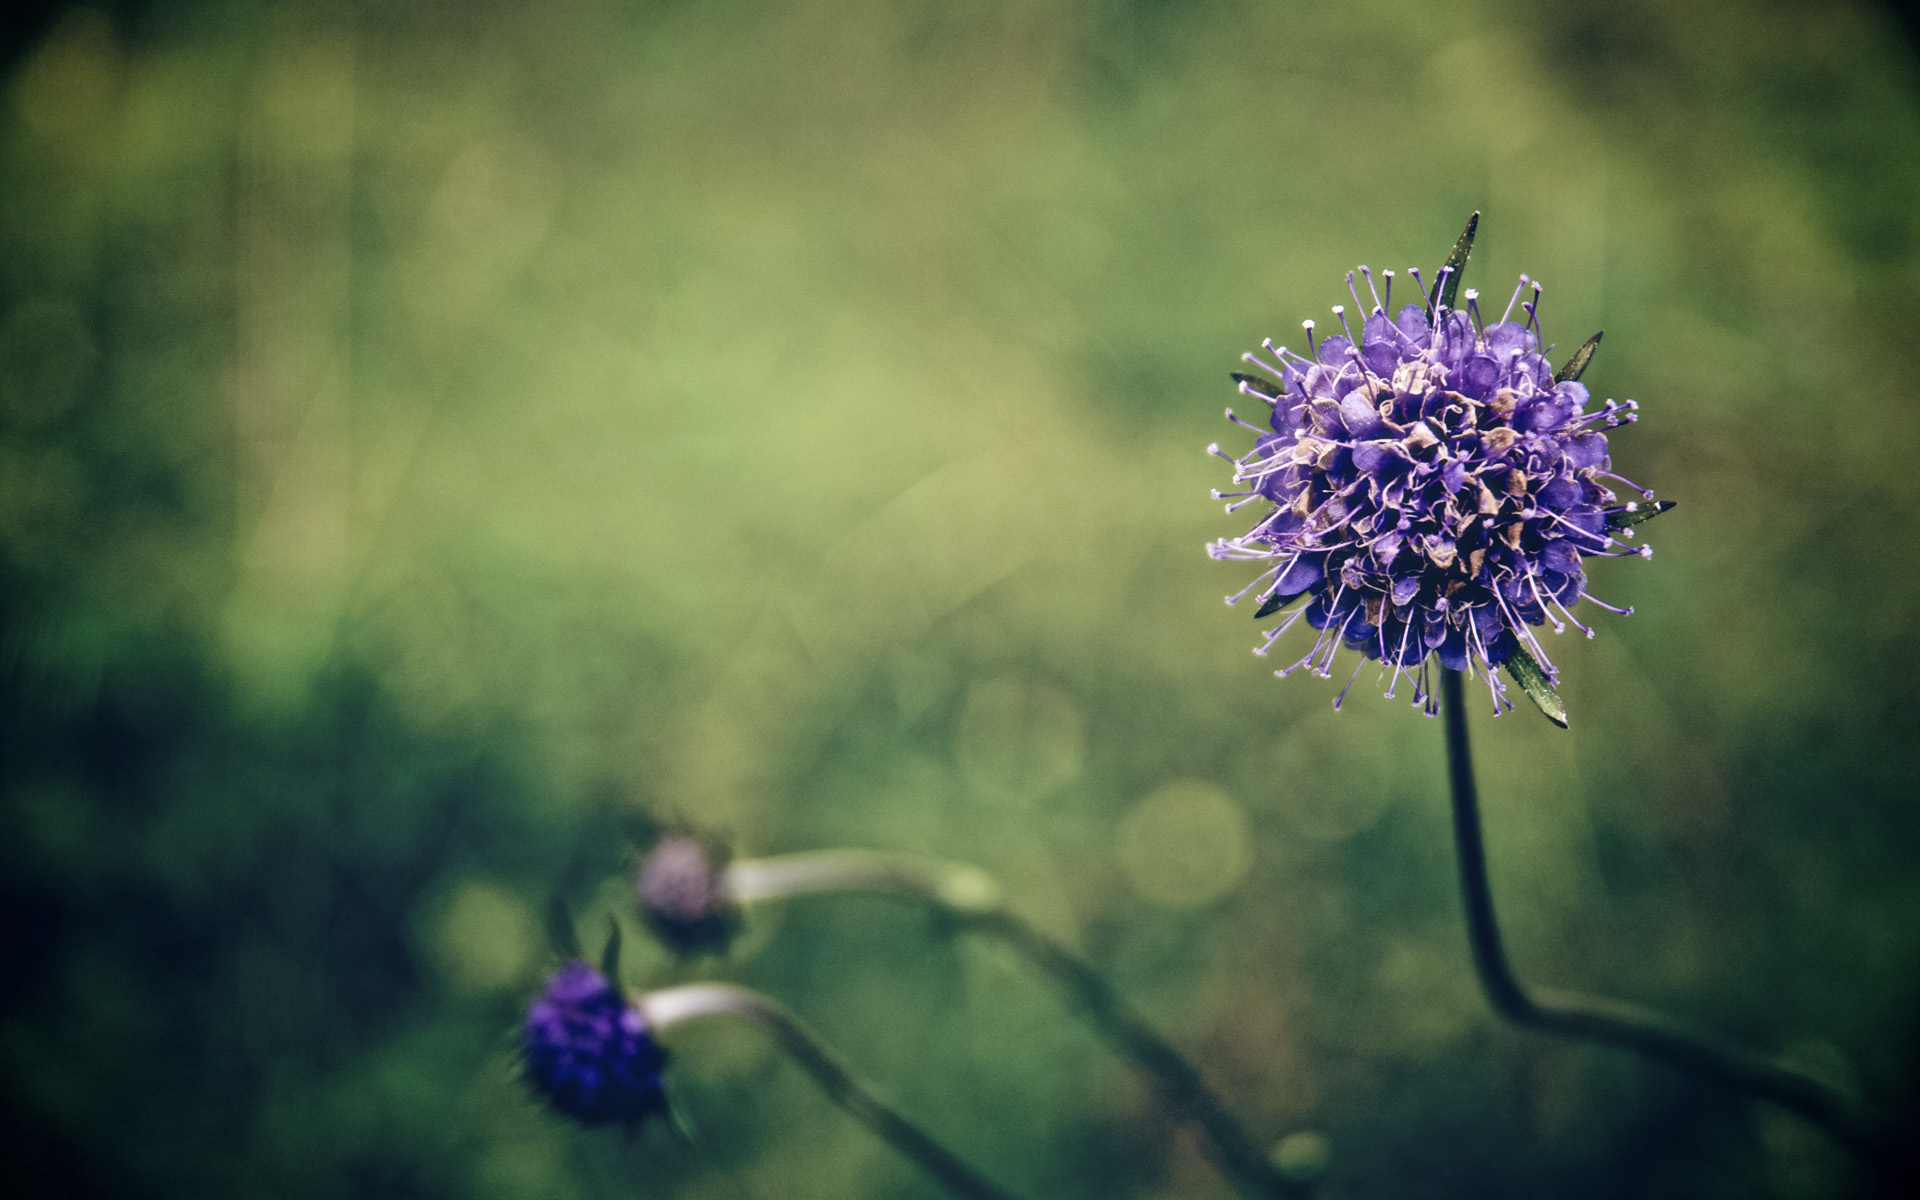
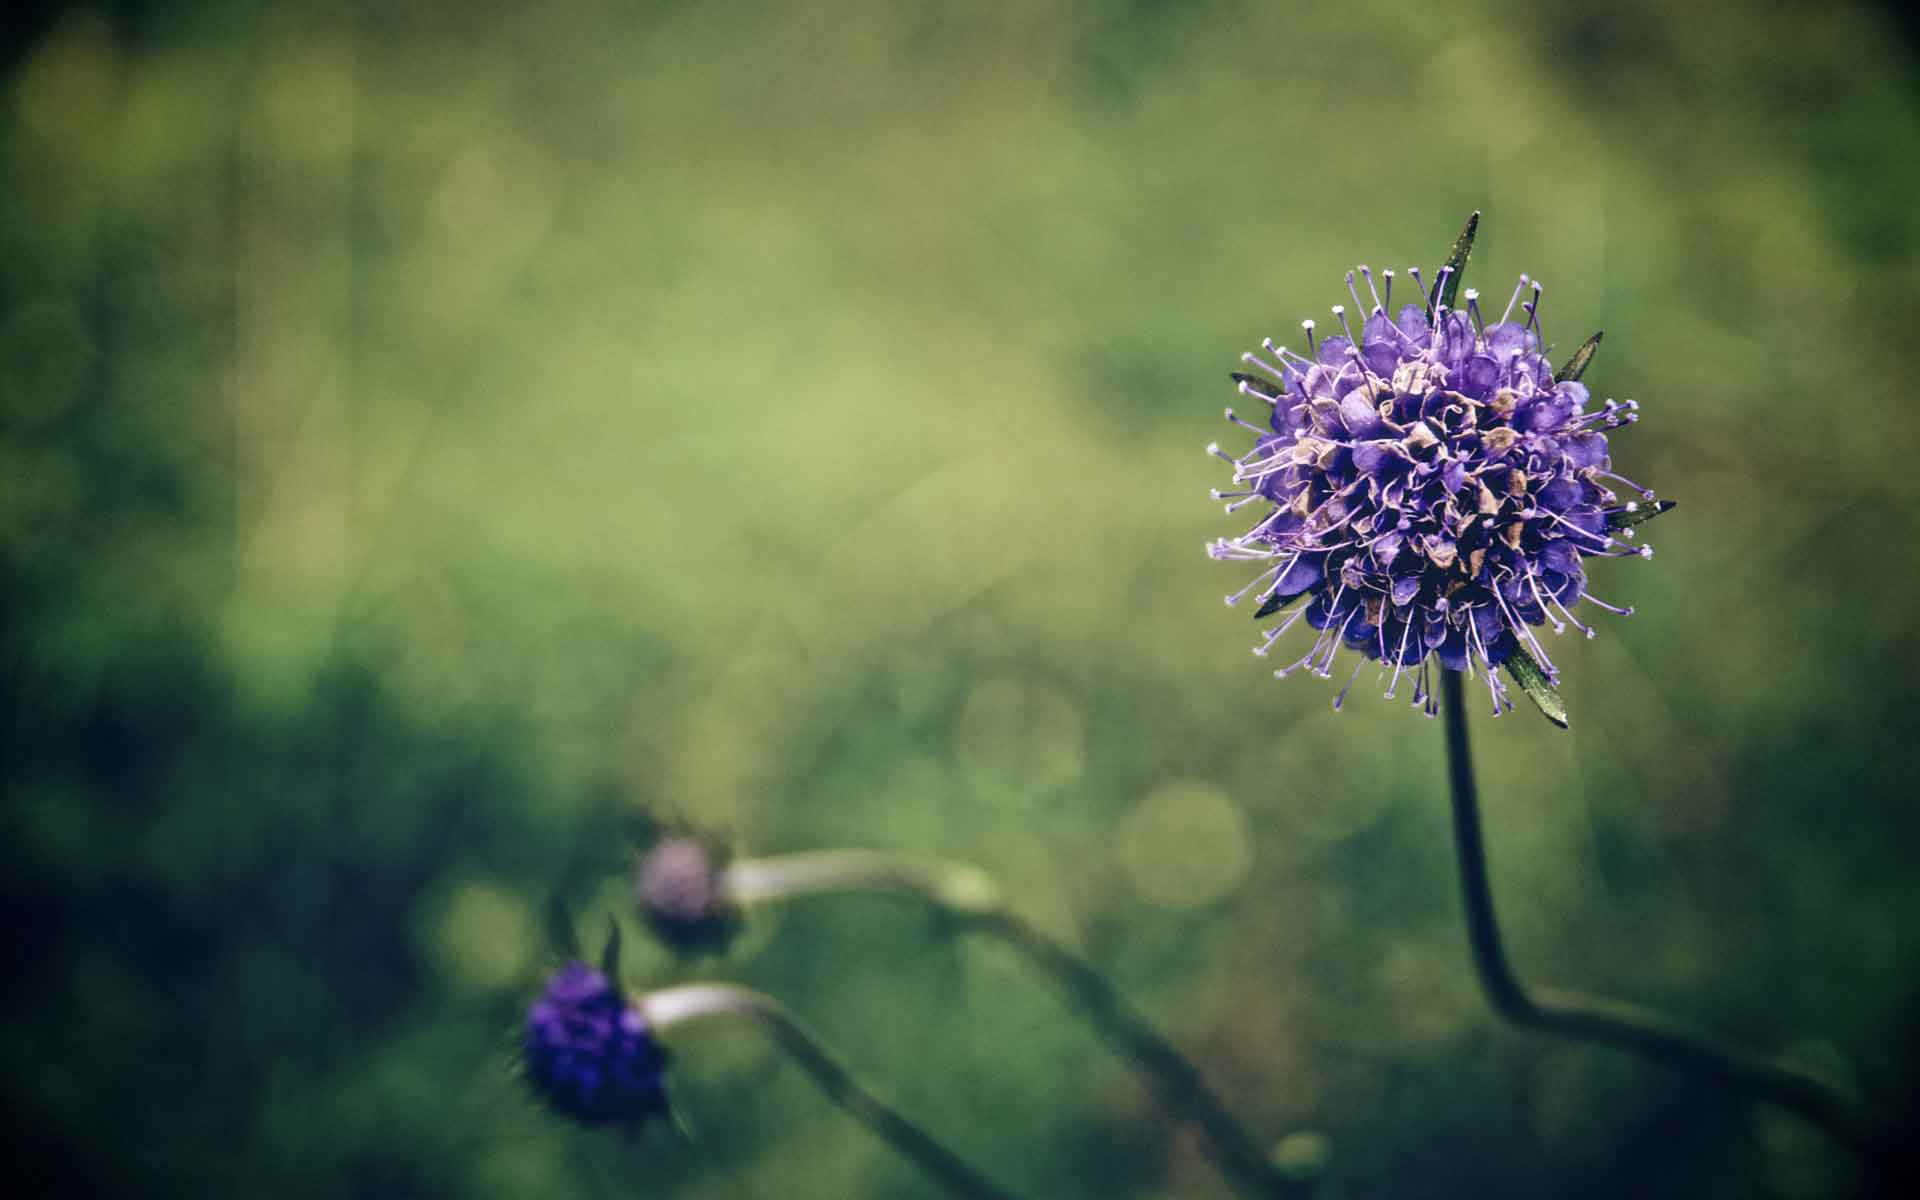
图片缩小， iOS CSS 的 fix

diff --git a/KTAnchor.css b/KTAnchor.css
@@ -3,7 +3,7 @@
 html, body{width:100%;height:100%;}
 body{overflow:hidden;background:#fff;color:#292f33;font-size:14px;line-height:18px;font-size:8.75pt;font-family:Arial;}
 .bold-medium{font-weight:bold;}
-a, .bold-medium{font-size:8.75pt;color:#5d656b;border:medium none;text-decoration:none;}
+a, .bold-medium{font-size:8.75pt;color:#5d656b;border:medium none;text-decoration:none;-webkit-tap-highlight-color:rgba(0,0,0,0);}
 a:hover, .bold-medium:hover{text-decoration:underline;}
 table{border-collapse:collapse;}
 
@@ -62,7 +62,7 @@ a.tree-menu-open div{background: url("img/button_down.gif") no-repeat scroll 27p
 .app-name {position:relative;top:0px;text-align:center;font-weight:bold;color:#444;}
 
 .login-form{position:absolute;width:276px;padding:10px;height:96px;background:none repeat scroll 0 0 rgba(255,255,255,0.9);}
-input, select {vertical-align:middle;display:inline-block;outline: 0 none;}
+input, select {vertical-align:middle;display:inline-block;outline: 0 none;-webkit-tap-highlight-color:rgba(0,0,0,0);}
 input.text-input, textarea, select.text-input {resize: none;padding: 0 4px;width:100%;-webkit-border-radius:4px;-khtml-border-radius:4px;-moz-border-radius:4px;border-radius:4px;font-size:12pt;background-color: #fff;text-align:left;border:1px solid #ccc; }
 input.text-input, select.text-input {height:32px;line-height:32px;}
 input.text-input:focus, textarea:focus {border:1px solid #56b4ef;-webkit-box-shadow:0 1px 3px rgba(0, 0, 0, 0.05) inset, 0 0 8px rgba(82, 168, 236, 0.6);-moz-box-shadow:0 1px 3px rgba(0, 0, 0, 0.05) inset, 0 0 8px rgba(82, 168, 236, 0.6);box-shadow:0 1px 3px rgba(0, 0, 0, 0.05) inset, 0 0 8px rgba(82, 168, 236, 0.6);}
